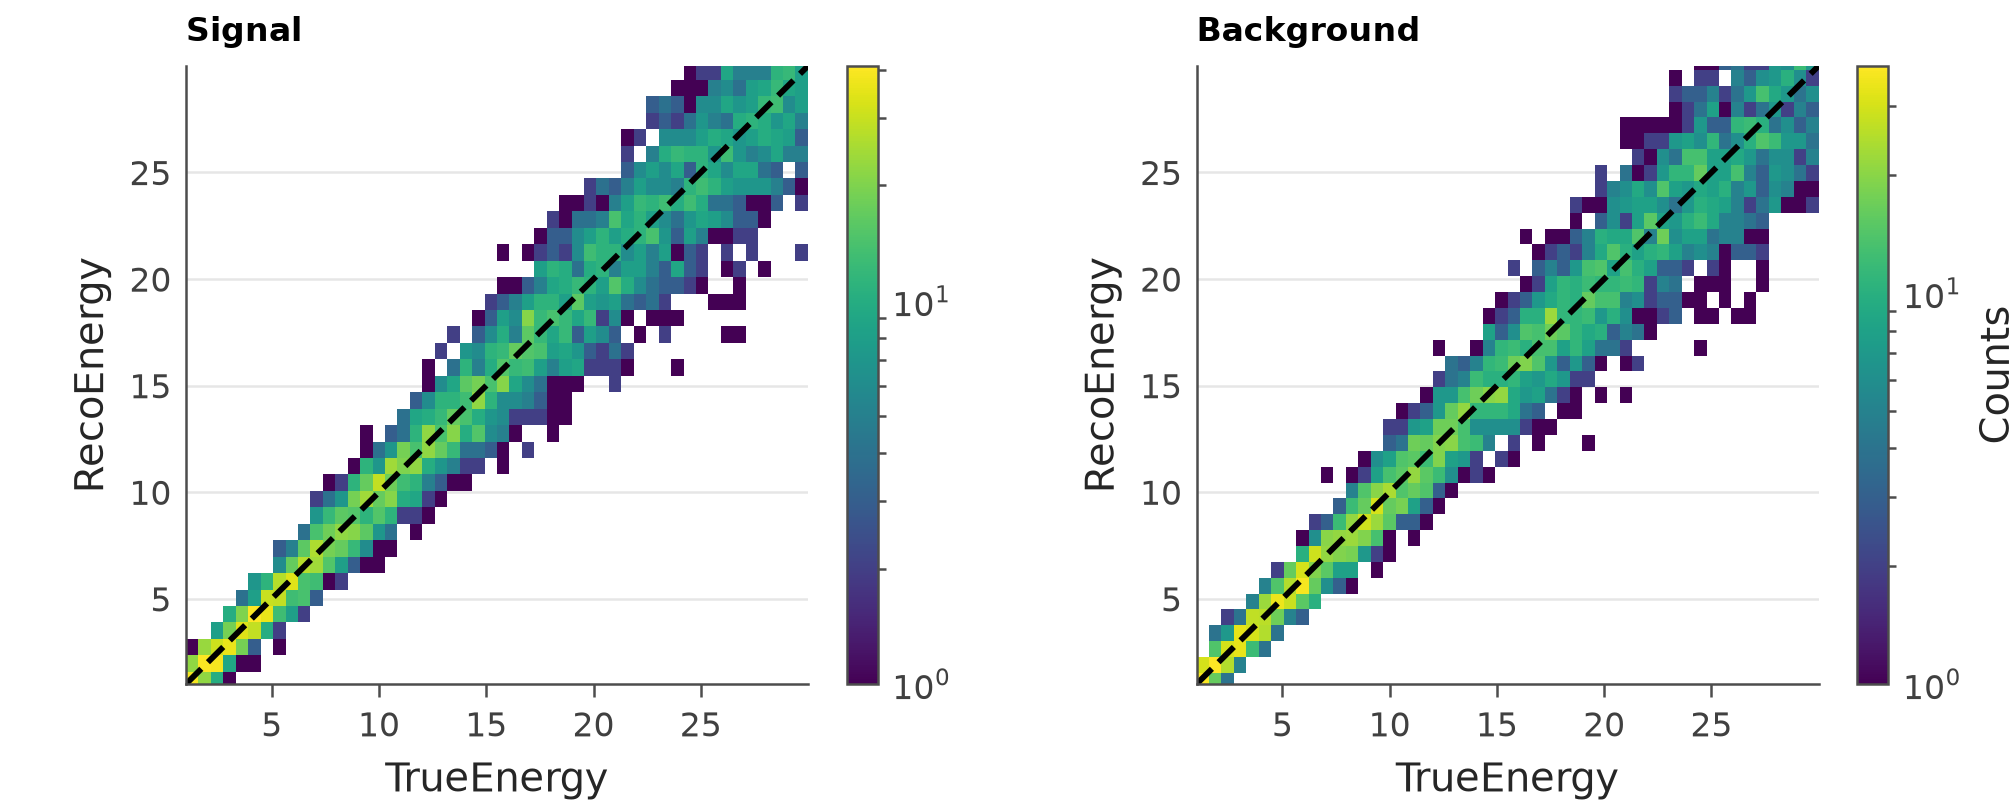
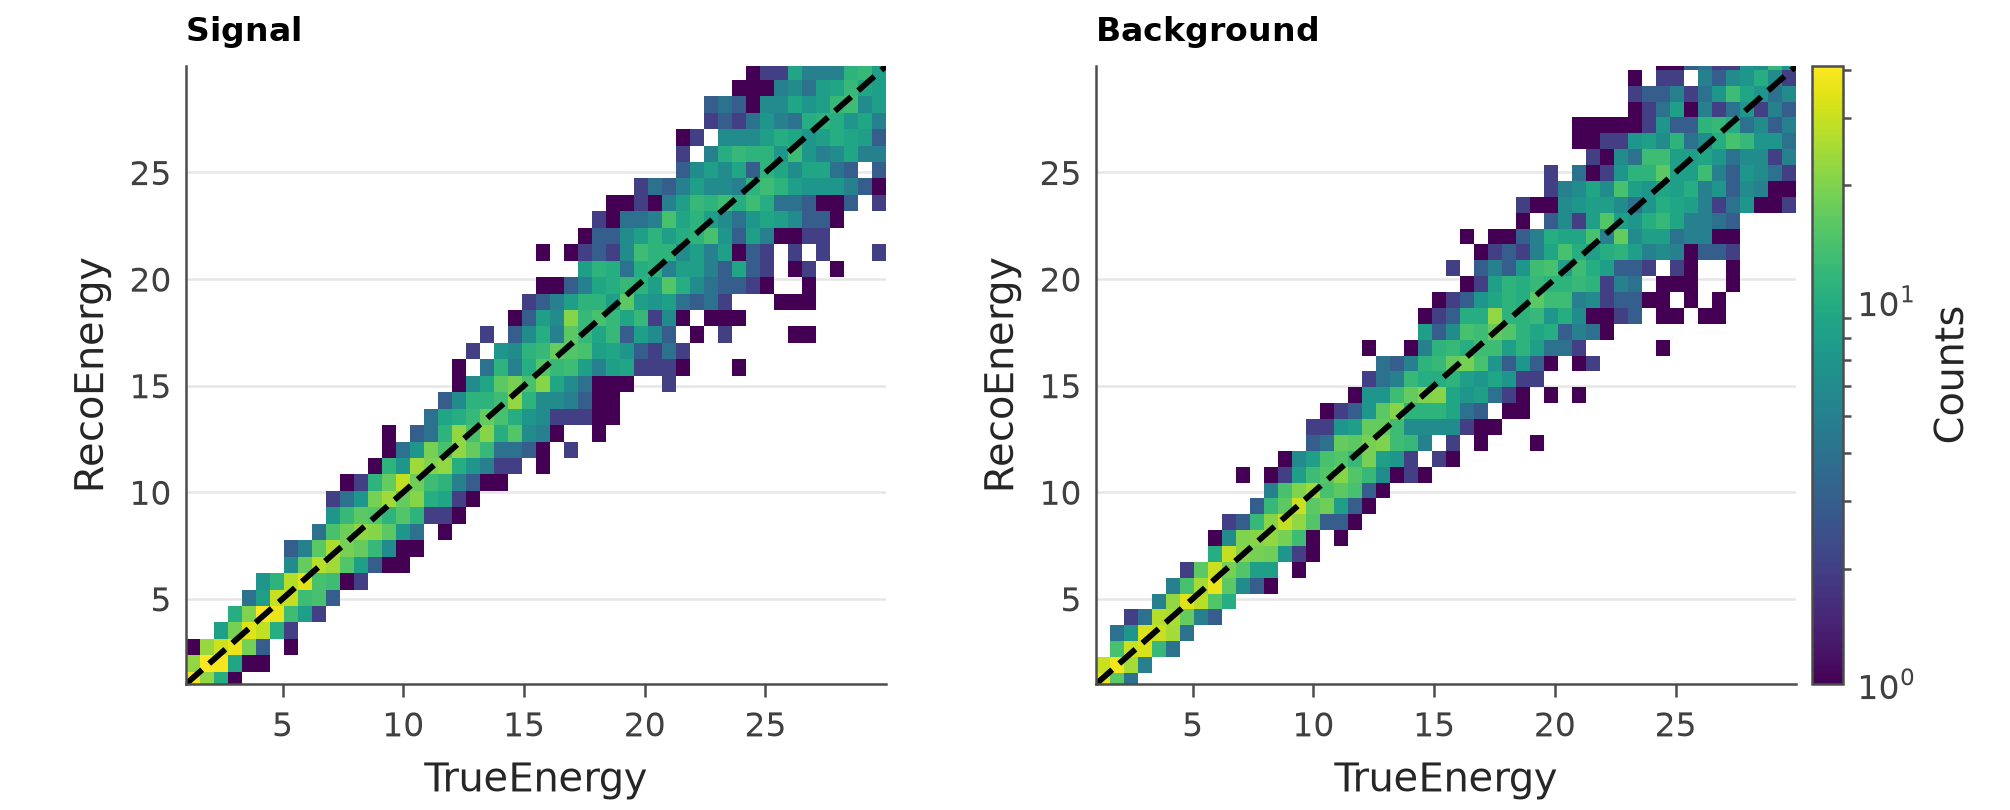
T09: shared, labelled colorbars
map panels that show the same quantity share one norm (vmin/vmax over all
panels) and one colorbar right of the row: --colorbar {shared,each},
default shared unless --norm normalises each panel. Every colorbar is
labelled (--labelz, else the --norm label, else Counts/Density, else the -z
column); the contour background bars go through the same path. Empty bins
are masked on linear and log scales; a log scale starts at the smallest
non-empty bin.

panels.add_colorbar gives every bar the style_spec §2.9 geometry (as tall
as the axes, 4% of their width, 2% padding) and pulls the panels in so the
bar's ticks and label are not cut by the right margin; scatter --colorby
uses it too. Fixes B08.

diff --git a/src/plotipus/kinds/map.py b/src/plotipus/kinds/map.py
@@ -38,7 +38,7 @@ from ..args import add_common_args, map_iterable_color, map_iterable_label, pars
 from ..format import make_config_label_from_args, make_subtitle_from_args
 from ..io import import_data, normalize_datafiles, prepare_import
 from ..palettes import ColorAllocator
-from ..panels import add_title_and_note, create_panels, draw_overlays, save
+from ..panels import add_colorbar, add_title_and_note, create_panels, draw_overlays, save
 from ..plot import (
     apply_legend_style,
     apply_scientific_threshold_formatter,
@@ -104,6 +104,9 @@ def build_parser():
     add = parser.add_argument
     add("--diagonal", action="store_true", default=False, help="Draw the y = x line.")
     add("--cmap", type=str, default=None, help="Matplotlib colour map of -z images.")
+    add("--colorbar", default=None, choices=["shared", "each"],
+        help="One colorbar and colour scale for the row of panels (shared, the default unless --norm) "
+        "or one per panel (each).")
     add("--panel_title", nargs="+", type=parse_plot_label, default=None, help="Title of each panel.")
     add("--compact", action="store_true", default=False, help="Hide repeated y ticks on inner panels.")
     add("--iterable_mapping", type=str, default=None,
@@ -233,7 +236,7 @@ def draw_histogram_figure(rows, args, kdx):
     panels, hues = _panels(rows, args)
     fig, axes, _, _ = create_panels(len(panels), grid=False)
     ranges = None
-    cbar = None
+    colorbars = []  # (ax, mappable, label) per panel
     subsets = []
     for pdx, (variable, hue) in enumerate(panels):
         ax = axes[pdx]
@@ -263,37 +266,39 @@ def draw_histogram_figure(rows, args, kdx):
         if z is not None:
             mappable = plot_data(args, ax, x, y=y, plot_type="image", z=z,
                                  **({"cmap": args.cmap} if args.cmap is not None else {}))
+            if args.logz:
+                mappable.set_array(np.ma.masked_less_equal(mappable.get_array(), 0))
             if args.rangez is not None:
                 mappable.set_clim(*args.rangez)
                 if args.logz:
                     # Bins below the log floor stay blank instead of taking the lowest colour.
                     mappable.set_cmap(mappable.get_cmap().with_extremes(under="none"))
-            cbar = fig.colorbar(mappable, ax=ax)
-            cbar.set_label(resolve_axis_label(args.labelz, args.z, subset))
+            colorbars.append((ax, mappable, resolve_axis_label(args.labelz, args.z, subset)))
         else:
             kwargs = {"range": (x_range, y_range), "bins": args.bins or style.nbins}
             if is_integer_valued(x) and is_integer_valued(y):
                 kwargs["bins"] = [integer_bin_edges(*x_range), integer_bin_edges(*y_range)]
             hist = plot_data(args, ax, x, y=y, plot_type="hist2d", **kwargs)
+            mesh = hist[3]
             if args.norm is not None:
-                hist[3].set_array(normalize_hist2d(hist[0], args.norm).T)
-            if not args.logz:
-                values = hist[3].get_array()
-                hist[3].set_array(np.ma.masked_where(values == 0, values))
-                hist[3].set_clim(0, hist[3].get_array().max())
+                mesh.set_array(normalize_hist2d(hist[0], args.norm).T)
+            # Empty bins are blank on linear and log scales alike.
+            mesh.set_array(np.ma.masked_less_equal(mesh.get_array(), 0))
+            if args.logz:
+                mesh.autoscale()  # vmin at the smallest non-empty bin
+            else:
+                mesh.set_clim(0, mesh.get_array().max())
             if args.rangez is not None:
-                hist[3].set_clim(*args.rangez)
-            cbar = fig.colorbar(hist[3], ax=ax)
+                mesh.set_clim(*args.rangez)
+            label = args.labelz or (NORM_LABELS[args.norm] if args.norm else "Density" if args.density else "Counts")
+            colorbars.append((ax, mesh, label))
 
         if args.diagonal:
             ax.plot(x_range, x_range, color="k" if args.logz else "white", linestyle="--")
             ax.set_xlim(ranges[0])
             ax.set_ylim(ranges[0])
 
-    if args.z is None and cbar is not None:
-        cbar.set_label(NORM_LABELS[args.norm] if args.norm else "Density" if args.density else "Counts")
-    if cbar is not None:
-        cbar.ax.yaxis.set_label_position("right")
+    draw_colorbars(fig, colorbars, args)
 
     for pdx, ((variable, hue), ax) in enumerate(zip(panels, axes)):
         hue_index = hues.index(hue) if hue in hues else 0
@@ -322,6 +327,33 @@ def draw_histogram_figure(rows, args, kdx):
 
     add_title_and_note(fig, args)
     return save(fig, args, kdx, suffix="hist2d.png")
+
+
+def colorbar_mode(args):
+    """shared or each: panels share one colorbar unless --norm normalises
+    each panel on its own scale (or --colorbar each asks for one per panel)."""
+    return args.colorbar or ("each" if args.norm else "shared")
+
+
+def draw_colorbars(fig, entries, args):
+    """Colorbars of ``entries`` [(ax, mappable, label)]: one per panel, or a
+    shared one right of the row when the panels show the same quantity (one
+    label), with one norm spanning every panel."""
+    if not entries:
+        return
+    labels = {label for _, _, label in entries}
+    if colorbar_mode(args) == "shared" and len(entries) > 1 and len(labels) == 1:
+        mappables = [mappable for _, mappable, _ in entries]
+        for mappable in mappables:
+            mappable.autoscale_None()
+        norm = type(mappables[0].norm)(vmin=min(m.norm.vmin for m in mappables),
+                                       vmax=max(m.norm.vmax for m in mappables))
+        for mappable in mappables:
+            mappable.set_norm(norm)
+        add_colorbar(fig, mappables[0], [ax for ax, _, _ in entries], labels.pop())
+        return
+    for ax, mappable, label in entries:
+        add_colorbar(fig, mappable, ax, label)
 
 
 # --- Contours: maps ------------------------------------------------------------------------
@@ -655,7 +687,8 @@ def _combined_width(args):
 
 def draw_background(ax, fig, x, y, z, args, rows, levels):
     """The background image. Delta-chi2 maps are clipped at the outermost
-    level (blank beyond it) and their colour bar is labelled delta-chi2."""
+    level (blank beyond it) and their colour bar is labelled delta-chi2. The
+    colorbar is drawn with the figure's others (:func:`draw_colorbars`)."""
     image = _smooth(z, args.background_smoothing_sigma)
     if args.logz:
         image = np.ma.masked_less_equal(image, 0)
@@ -671,7 +704,6 @@ def draw_background(ax, fig, x, y, z, args, rows, levels):
     if delta_chi2 and args.rangez is None:
         # Cells outside the outermost contour stay blank.
         mesh.set_cmap(mesh.get_cmap().with_extremes(over="none"))
-    cbar = fig.colorbar(mesh, ax=ax)
     if args.labelz is not None:
         label = args.labelz
     elif args.density:
@@ -680,8 +712,7 @@ def draw_background(ax, fig, x, y, z, args, rows, levels):
         label = r"$\Delta\chi^2$"
     else:
         label = resolve_axis_label(None, args.z, rows)
-    cbar.set_label(label)
-    cbar.ax.yaxis.set_label_position("right")
+    ax._background_colorbar = (mesh, label)
 
 
 def contour_legend(sets, labels):
@@ -1024,6 +1055,7 @@ def draw_contour_figure(df, args):
             if handles:
                 apply_legend_style(ax, handles=handles, capitalize_labels=args.capitalize_legend).set_zorder(10)
 
+    draw_colorbars(fig, [(ax, *ax._background_colorbar) for ax in axes if hasattr(ax, "_background_colorbar")], args)
     add_title_and_note(fig, args)
     if args.compact and ncols > 1:
         fig.tight_layout()

diff --git a/tests/test_map.py b/tests/test_map.py
@@ -224,3 +224,82 @@ def test_contour_overlays_above_fills(make_project):
     best_fit = [line for line in ax.get_lines() if line.get_marker() == "+"][0].get_zorder()
     overlays = [line for line in ax.get_lines() if list(line.get_ydata()) in ([0, 2], [1, 1])]
     assert len(overlays) == 2 and all(fills < line.get_zorder() < best_fit for line in overlays)
+
+
+# --- Colorbars (T09) -----------------------------------------------------------------
+
+
+def _two_samples():
+    rng = np.random.default_rng(1)
+    rows = []
+    for sample, n in (("signal", 400), ("background", 4000)):
+        x = rng.uniform(0, 10, n)
+        rows.append({"Sample": sample, "X": x, "Y": x + rng.normal(scale=1.0, size=n)})
+    return pd.DataFrame(rows)
+
+
+def _render(make_project, frame, *argv):
+    from plotipus import registry
+
+    make_project({"Events": frame})
+    figures = []
+    registry.add_figure_hook(lambda fig, args: figures.append(fig))
+    map_kind.main(["--datafile", "Events", "-x", "X", "-y", "Y", "--iterable", "Sample", *argv])
+    fig = figures[0]
+    colorbars = [ax._colorbar for ax in fig.axes if hasattr(ax, "_colorbar")]
+    panels = [ax for ax in fig.axes if not hasattr(ax, "_colorbar") and ax.collections]
+    return colorbars, [ax.collections[0] for ax in panels]
+
+
+def test_shared_colorbar_and_norm(make_project):
+    colorbars, meshes = _render(make_project, _two_samples(), "--logz")
+    assert len(colorbars) == 1 and colorbars[0].ax.get_ylabel() == "Counts"
+    assert len(meshes) == 2 and meshes[0].norm is meshes[1].norm
+    smallest = min(m.get_array().compressed().min() for m in meshes)
+    assert meshes[0].norm.vmin == smallest > 0
+    assert meshes[0].norm.vmax == max(m.get_array().max() for m in meshes)
+
+
+def test_each_colorbar_labelled(make_project):
+    colorbars, meshes = _render(make_project, _two_samples(), "--colorbar", "each", "--labelz", "Events")
+    assert [c.ax.get_ylabel() for c in colorbars] == ["Events", "Events"]
+    assert meshes[0].norm is not meshes[1].norm
+
+
+def test_norm_defaults_to_one_colorbar_per_panel(make_project):
+    colorbars, _ = _render(make_project, _two_samples(), "--norm", "vertical")
+    assert [c.ax.get_ylabel() for c in colorbars] == ["Normalized Counts (Columns)"] * 2
+
+
+def test_empty_bins_masked(make_project):
+    for argv in (["--logz"], []):
+        _, meshes = _render(make_project, _two_samples(), *argv)
+        values = meshes[0].get_array()
+        assert np.ma.is_masked(values)
+        assert values.compressed().min() > 0
+
+
+def test_colorbar_geometry(make_project):
+    colorbars, meshes = _render(make_project, _two_samples(), "--colorbar", "each")
+    fig = colorbars[0].ax.figure
+    for colorbar, mesh in zip(colorbars, meshes):
+        panel = mesh.axes.get_position()
+        bar = colorbar.ax.get_position()
+        assert np.isclose(bar.height, panel.height)
+        assert 0.035 < bar.width / panel.width < 0.05
+        # Ticks and label stay inside the figure.
+        assert colorbar.ax.get_tightbbox().transformed(fig.transFigure.inverted()).x1 <= 1
+
+
+def test_contour_backgrounds_share_a_colorbar(make_project):
+    from plotipus import registry
+
+    make_project({"Maps": _maps()})
+    figures = []
+    registry.add_figure_hook(lambda fig, args: figures.append(fig))
+    map_kind.main(["--datafile", "Maps", "-x", "XGrid", "-y", "YGrid", "-z", "ZGrid", "--contour",
+                   "--iterable", "Config", "--background", "first"])
+    colorbars = [ax._colorbar for ax in figures[0].axes if hasattr(ax, "_colorbar")]
+    panels = [ax for ax in figures[0].axes if not hasattr(ax, "_colorbar") and ax.get_visible()]
+    assert len(panels) == 2
+    assert len(colorbars) == 1 and colorbars[0].ax.get_ylabel() == r"$\Delta\chi^2$"

diff --git a/src/plotipus/panels.py b/src/plotipus/panels.py
@@ -84,6 +84,48 @@ def _stacked_figure(ncols, height_ratios):
     return fig, grid
 
 
+# Colorbar geometry (style_spec §2.9): as tall as the axes, 4% of one axes'
+# width, 2% of it as padding.
+COLORBAR_WIDTH = 0.04
+COLORBAR_PAD = 0.02
+
+
+def add_colorbar(fig, mappable, axes, label=None):
+    """Colorbar right of ``axes`` (one axes, or a row sharing it), labelled
+    on its right."""
+    axes = list(np.atleast_1d(axes))
+    boxes = [ax.get_position() for ax in axes]
+    width = boxes[0].width
+    span = max(b.x1 for b in boxes) - min(b.x0 for b in boxes)
+    fig_width, fig_height = fig.get_size_inches()
+    aspect = boxes[0].height * fig_height / (COLORBAR_WIDTH * width * fig_width)
+    cbar = fig.colorbar(mappable, ax=axes if len(axes) > 1 else axes[0], fraction=COLORBAR_WIDTH * width / span,
+                        pad=COLORBAR_PAD * width / span, shrink=1.0, aspect=aspect)
+    if label is not None:
+        cbar.set_label(label)
+    cbar.ax.yaxis.set_label_position("right")
+    _fit_colorbar(fig, cbar, axes, max(b.x1 for b in boxes))
+    return cbar
+
+
+def _fit_colorbar(fig, cbar, axes, right):
+    """Move the colorbar left, narrowing ``axes``, until its ticks and label
+    end at ``right`` (the panels' original right edge) instead of in the
+    margin, where they would be cut."""
+    fig.canvas.draw()
+    to_figure = fig.transFigure.inverted()
+    overflow = cbar.ax.get_tightbbox().transformed(to_figure).x1 - right
+    if overflow <= 0:
+        return
+    boxes = [ax.get_position() for ax in axes]
+    left, edge = min(b.x0 for b in boxes), max(b.x1 for b in boxes)
+    scale = (edge - left - overflow) / (edge - left)
+    for ax, box in zip(axes, boxes):
+        ax.set_position([left + (box.x0 - left) * scale, box.y0, box.width * scale, box.height])
+    bar = cbar.ax.get_position(original=True)
+    cbar.ax.set_position([bar.x0 - overflow, bar.y0, bar.width, bar.height])
+
+
 def apply_axis_options(ax, args, prefix="", x=True):
     """Ranges and log scales from ``--{prefix}rangey``, ``--{prefix}logy``
     (and the shared x options when ``x``)."""

diff --git a/src/plotipus/kinds/scatter.py b/src/plotipus/kinds/scatter.py
@@ -28,7 +28,7 @@ from ..encodings import add_legend_args
 from ..format import make_config_color_and_style_from_args, make_config_label_from_args
 from ..io import import_data, prepare_import
 from ..palettes import ColorAllocator
-from ..panels import add_title_and_note, create_panels, save
+from ..panels import add_colorbar, add_title_and_note, create_panels, save
 from ..plot import add_centered_suptitle, apply_legend_style, apply_note_to_figure
 from ..selection import filter_dataframe
 from . import _base
@@ -500,8 +500,7 @@ def draw_points(rows, args, kdx):
                 for collection in drawn:
                     collection.set_edgecolor(collection.get_facecolors())
                     collection.set_facecolor("none")
-        colorbar = fig.colorbar(last, ax=list(axes), shrink=0.9, pad=0.02)
-        colorbar.set_label(args.labelz if args.labelz is not None else args.colorby)
+        add_colorbar(fig, last, axes, args.labelz if args.labelz is not None else args.colorby)
     elif args.iterable is not None and args.iterable in rows.columns:
         rows = rows.dropna(subset=[args.iterable])
         # Sorted, so the same value set always gets the same colours.

diff --git a/docs/design/catalogue.md b/docs/design/catalogue.md
@@ -76,7 +76,7 @@ about 12 of them to ✅.
 | B1 | Scatter | raw relation | F08, F22, F25 | ◐ | `scatter --datafile Events -x TrueEnergy -y Hits --colorby RecoEnergy` (example) works. With `--hue` on array cells only the first group is drawn (B12, P16). | Fix B12. |
 | B2 | Scatter with error bars | measurements with uncertainties | F08, F09, F20 | ✅ | `line --plot_type errorbar --errory` (with `--errorx` for x errors; P03, P04). Points are joined by lines unless the plot style is reset (B17). | — |
 | B3 | Scatter coloured / sized by a third variable | 3–4 variables at once | F22 | ✅ | `scatter ... --colorby RecoEnergy --sizeby Hits` (example). | — |
-| B4 | 2D histogram | dense scatter | F22 | ◐ | `map --datafile Events -x TrueEnergy -y RecoEnergy --iterable Sample --logz` (example). Colorbars: B08. Panels are tiny in the 3-wide layout (P15). | Fix B08; shared colorbar. |
+| B4 | 2D histogram | dense scatter | F22 | ◐ | `map --datafile Events -x TrueEnergy -y RecoEnergy --iterable Sample --logz` (example). One shared, labelled colorbar (B08, fixed in T09). Panels are tiny in the 3-wide layout (P15). | Panel size (P15). |
 | B5 | Hexbin | dense scatter, smoother look | F22 | ✗ | — | `map --map_type hexbin` (`ax.hexbin`, same norms). |
 | B6 | Gridded map (z on x×y) | functions, scans, images | F15 | ✅ | `map --datafile Contour -x XGrid -y YGrid -z ZGrid` (P17 for a 3×3 grid). | — |
 | B7 | Contour lines / filled contours | levels of a 2D function | F10 | ✅ | `map ... -z ZGrid --contour --contour_sigmas 1 2 3 [--fill_contours]` (example). 2-dof Δχ² levels labelled by coverage, graded fills from the best fit outwards, solid/dashed/dotted outlines, `+` at the minimum (B03, fixed in T02). | Non-σ levels with inline `clabel`: I9. |
@@ -158,7 +158,7 @@ All curves are precomputed by the analysis (plotipus does not fit or score).
 | id | chart | use | famous | status | command today / what is missing | smallest change |
 |---|---|---|---|---|---|---|
 | H1 | Facets by a column (wrapped grid) | same plot per group | F25, F11 | ✅ | `line ... --variables panel0 panel1 panel2 panel3` (P18; any column via `--variable_column`). | — |
-| H2 | Shared axes and colour scales across facets | honest comparison | F25 | ◐ | `--compact` hides inner labels; `--matchx/--matchy` exist in `map` only; colorbars are not shared (B08). | `--sharex/--sharey` for every kind; one colorbar per row. |
+| H2 | Shared axes and colour scales across facets | honest comparison | F25 | ◐ | `--compact` hides inner labels; `--matchx/--matchy` exist in `map` only; `map` panels share one colour scale and colorbar (T09). | `--sharex/--sharey` for every kind. |
 | H3 | Facet grid (rows × columns by two columns) | two-factor comparison | F15 | ✗ | Panels come from one column only. | `--facet_row COL --facet_col COL`. |
 | H4 | Upper + lower panels | ratios, residuals | F01, F07 | ✅ | `--lower` (repeatable). | — |
 | H5 | Inset axes | zoom, second view | F02, F13, F18 | ✗ | — | `--inset X0 X1 [Y0 Y1] --inset_pos x y w h`: redraws the same series in a zoom box. |

diff --git a/README.md b/README.md
@@ -56,7 +56,7 @@ Kinds follow the data relationship (as in seaborn/plotly), not the use case.
 | `line` | y against an ordered x, one series per `--hue` value, line style per `--style` value | `--plot_type step\|stepmid\|line\|errorbar\|plot\|bar\|barh\|box`, `--lower`, `--stacked`, `--sum_iterables`, `--merge_iterables`, `--rebin`, `--by_config`, `--fit`, `--binned --estimator mean\|median\|std\|rms\|sum\|max\|min` |
 | `scatter` | observations: exploded points with colour/size/marker encodings, or pairs of metrics (`--x_from Variable=Purity --y_from Variable=Completeness`) | `--colorby`, `--sizeby`, `--markerby`, `--aggregate` |
 | `hist` | 1D histograms of per-event arrays | `--bins`, `--weight`, `--density`, `--hist_combine` |
-| `map` | 2D: histogram of point arrays, image of a grid (`-z`), contour layer (`--contour`) | `--norm`, `--diagonal`, `--logz`, `--contour_sigmas`, `--contour_dof`, `--contour_label`, `--fill_contours`, `--background`, `--no_best_fit` |
+| `map` | 2D: histogram of point arrays, image of a grid (`-z`), contour layer (`--contour`) | `--norm`, `--diagonal`, `--logz`, `--colorbar`, `--contour_sigmas`, `--contour_dof`, `--contour_label`, `--fill_contours`, `--background`, `--no_best_fit` |
 | `cat` | one value per category (integrated arrays) | `--integrate_over`, `--kind point\|line\|bar` |
 | `table` | aggregated values as LaTeX (and HTML) tables | `--variables`, `--agg`, `--error_band`, `--clopper_pearson`, `--siunitx`, `--caption_file` |
 
@@ -105,6 +105,15 @@ derived from (or stored in) the same DataFrame. Each `--lower` adds one:
 The lower panel is styled with the upper-panel options prefixed by `lower_`:
 `--lower_plot_type errorbar`, `--lower_labely`, `--lower_rangey`,
 `--lower_logy`, `--lower_horizontal`, ...
+
+### Colorbars
+
+`map` panels showing the same quantity share one colour scale and one
+colorbar right of the row (`--colorbar shared`, the default unless `--norm`
+normalises each panel); `--colorbar each` draws one per panel. Every bar is
+labelled: `--labelz`, else the `--norm` label, else "Counts"/"Density", else
+the `-z` column. Empty bins are blank, and with `--logz` the scale starts at
+the smallest non-empty bin.
 
 ### Contours
 

diff --git a/docs/design/bugs.md b/docs/design/bugs.md
@@ -241,6 +241,13 @@ major formatter of both axes by `hist.py:175`, `line.py:1283`,
 - Use one shared norm and one colorbar for the row (`fig.colorbar(mappable, ax=axes)`) when panels share a quantity, or label every bar.
 - Set `vmin` at the lowest non-empty bin and leave empty bins blank.
 
+**Fixed in T09.** Panels of one `map` figure share a norm (`vmin`/`vmax`
+over all of them) and one colorbar right of the row (`--colorbar shared`,
+default unless `--norm`); `--colorbar each` restores per-panel bars, now
+each labelled. Empty bins are masked on linear and log scales, and a log
+scale starts at the smallest non-empty bin. Bars are as tall as the axes,
+4% of their width with 2% padding (scatter `--colorby` too).
+
 ## B09 hist: edge bins, range and label
 
 **Reproduce:** `B09a` (flat distribution: the first and last bins are drawn
